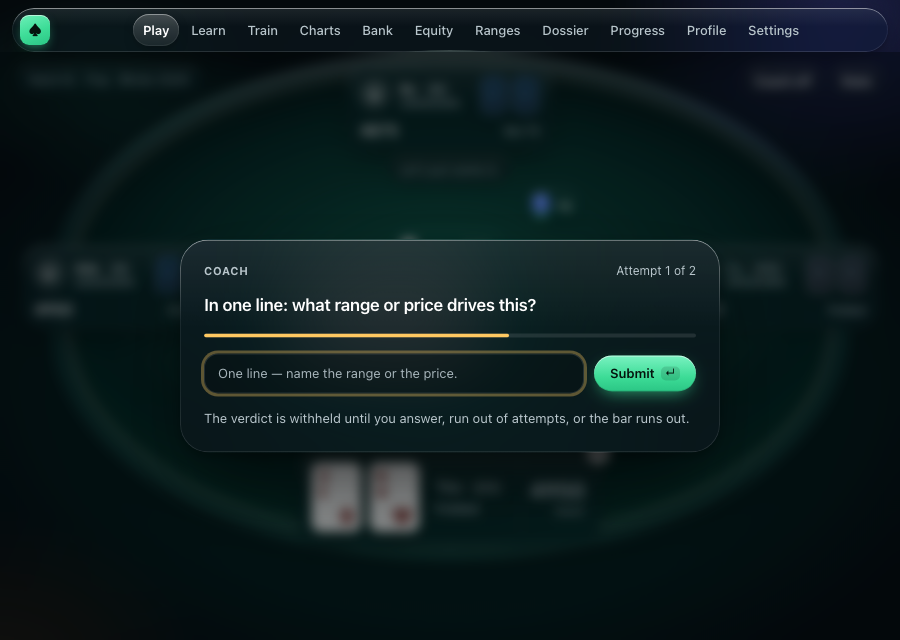
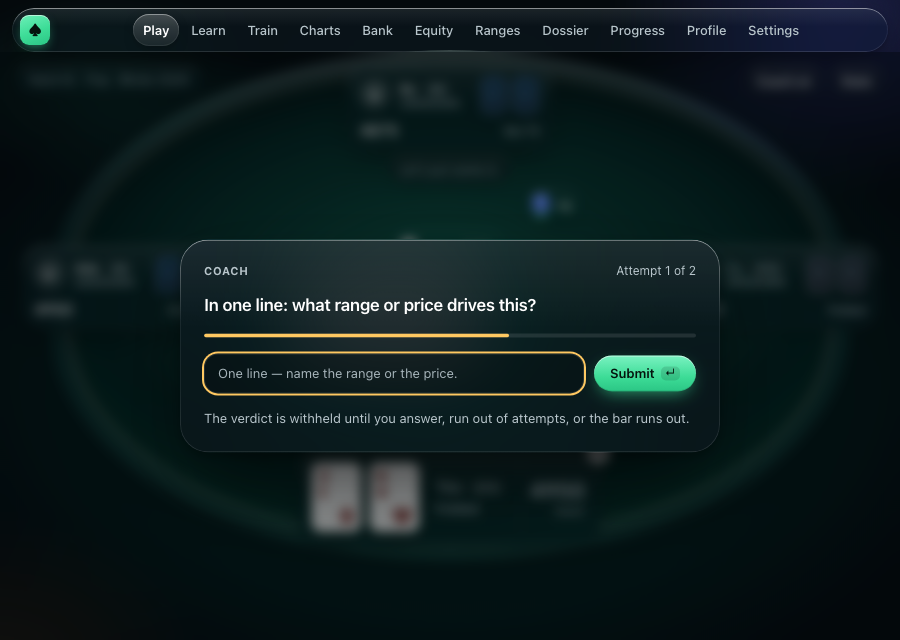
demo(glass): round-2 review fixes; review, findings, PR draft
Gate state shows Coach on; scale pin documented as needing an update;
solid gate focus ring; grid group role. Adds code-review.md, FINDINGS.md,
DESIGN.md and PR-DRAFT.md.

Changed region(s): [[0.2178, 0.5312, 0.6533, 0.625]]

diff --git a/demo/glass/glass.css b/demo/glass/glass.css
@@ -216,7 +216,7 @@ html[data-theme='light'] .avatar { background: #fff; }
 .seat.folded .name, .seat.folded .stackval, .seat.folded .hstack .stackval { color: var(--text-lo); }  /* dim by colour, never opacity: opacity breaks AA on glass */
 .seat.folded .status { color: var(--text-lo); }
 .status { font-size: var(--t-cap2); font-weight: 600; color: var(--text-lo); }
-.seat.act { box-shadow: var(--glow-act), var(--inner-hi), var(--shadow-2); scale: 1.02; }  /* glow alpha + scale match the e2e to-act pin */
+.seat.act { box-shadow: var(--glow-act), var(--inner-hi), var(--shadow-2); scale: 1.02; }  /* glow alpha matches the e2e pin; the pin reads scale from `transform`, see DECISIONS */
 .seat.act .status { color: var(--positive); }
 .quip { position: absolute; top: calc(100% + 8px); left: 50%; transform: translateX(-50%); width: max-content; max-width: 210px;
   padding: 5px 10px; border-radius: 12px; font-size: var(--t-cap); font-style: italic; color: var(--text-lo); }
@@ -351,4 +351,4 @@ html[data-theme='light'] .budget { background: rgba(10,40,40,0.10); }
   background: rgba(0,0,0,0.20); box-shadow: inset 0 0 0 1px var(--glass-edge), inset 0 1px 2px rgba(0,0,0,0.3); }
 html[data-theme='light'] .gate-row .gate-input { background: rgba(255,255,255,0.6); }
 .gate-input::placeholder { color: var(--text-lo-2); }
-.gate-input:focus { box-shadow: inset 0 0 0 1px var(--glass-edge), 0 0 0 3px rgba(255, 200, 97, 0.35); }
+.gate-input:focus { box-shadow: inset 0 0 0 1px var(--glass-edge), 0 0 0 2px var(--notable); }

diff --git a/demo/glass/tokens.css b/demo/glass/tokens.css
@@ -10,7 +10,8 @@
  *     new :root tokens plus component rules.
  *  3. e2e pins the port must keep or deliberately update (tests/e2e/interaction.spec.ts, gameplay.spec.ts):
  *     --text-hi #FFFFFF and --positive #3DDC97 never in a theme block; pot 14px/500; Fold box-shadow none;
- *     to-act shadow contains rgba(61, 220, 151, 0.4) with scale 1.02 (kept here); winner ring mint
+ *     to-act shadow contains rgba(61, 220, 151, 0.4) (kept here); to-act transform matrix(1.02…) (must be
+ *     updated: the oval's translateX composes into it); winner ring mint
  *     border-top-color.
  *
  * The LIGHT block overrides --text-hi and --positive, which the renderer's theme rule forbids. It stays

diff --git a/demo/glass/charts.html b/demo/glass/charts.html
@@ -104,7 +104,7 @@
               <span class="cap">Reference expansion — all 169 cells</span>
               <span class="legend"><span><i class="sw-open"></i>open</span><span><i class="sw-edge"></i>boundary</span></span>
             </div>
-            <div class="grid" id="grid" aria-label="CO open range, 169 cells"></div>
+            <div class="grid" id="grid" role="group" aria-label="CO open range, 169 cells"></div>
           </div>
           <div class="quizbar glass thick">
             <div class="cards"><div class="card"><span class="rk">A</span><span class="st">♠</span></div><div class="card red"><span class="rk">9</span><span class="st">♥</span></div></div>

diff --git a/demo/glass/table.html b/demo/glass/table.html
@@ -161,7 +161,7 @@
   // Mock-only state switch.
   const state = new URLSearchParams(location.search).get('state') || 'live';
   const $ = (id) => document.getElementById(id);
-  if (state === 'predict' || state === 'verdict') $('coachBtn').textContent = 'Coach on';
+  if (state !== 'live') $('coachBtn').textContent = 'Coach on'; // predict, gate and verdict only exist in coached mode
   if (state === 'predict') { $('tray').hidden = false; $('dock').hidden = true; $('stage').classList.add('predicting'); } // the dock is locked until commit; the tray occupies its slot
   if (state === 'gate' || state === 'verdict') {
     const sheet = $(state);

diff --git a/code-review.md b/code-review.md
@@ -1,0 +1,84 @@
+# Review: design-glass-mockup
+Verdict: PASS WITH NOTES
+Base: 4c4a305  Head: see `git log -1` (the fix commit after a0907f6)
+
+An adversarial reviewer ran in two rounds, following `~/.foundry/skills/pr-review/SKILL.md`:
+- **Round 1** (c20e068): BLOCK, with 11 Act-on items.
+- **Round 2** (a0907f6): BLOCK. Ten items were confirmed fixed. One new defect and one partial fix remained.
+
+Both remaining items are fixed at head and were re-verified below, so no Act-on item is open.
+
+## Act on
+None open. Both round-2 items are resolved:
+- **demo/glass/table.html — `?state=gate` showed "Coach off".** The gate only fires in coached mode, so the
+  label was wrong. Fixed: the label is set to "Coach on" for every state except `live`. A probe now reads
+  `live Coach off`, `predict/gate/verdict Coach on`.
+- **DECISIONS.md and tokens.css — the claim "scale 1.02 (the mock keeps this)" was false for the real pin.**
+  interaction.spec.ts:192 reads `transform` = `matrix(1.02…)`, but the mock uses the `scale` property, and
+  the oval's `translateX(-50%)` would compose into that matrix. Fixed: the docs now say the shadow alpha is
+  kept and the transform pin needs updating in the port.
+
+## Consider
+- **Scroll panels at 900x640 cut a row at the panel edge** (home recent hand #39, charts rule 3) with only
+  a thin scrollbar as the cue. Tradeoff: an edge fade lowers the contrast of the last visible line; it is
+  left as is, and the capture log reports "scrolls inside".
+- **The overlap check covers only the table panes in the live and predict states.** Sheet-versus-nav and
+  nested panes are not checked. Tradeoff: the sheets are centred modals with the nav inert, so the risk
+  is low.
+
+## Noted
+- **Some text is outside the contrast script but was probed by the reviewer, and all of it passes:**
+  pseudo-element counters (≥ 8.86), the gate placeholder (8.61 dark / 6.56 light) and hover states (≥ 6.18).
+  contrast.md states the gap.
+- **The light block keeps `--suit-red` `#FF7A6B`**, which would be about 2.5:1 on light glass if the light
+  theme were ported. The light theme is declared preview-only (an Open question).
+- **Minor markup:**
+  - `<button class="start">` wraps `<div>`s.
+  - the gate uses an `<input>`, where the real control is a `<textarea>`.
+- **The evidence scripts live in gitignored `tests/tmp/`**, as the task specifies. They are captured as
+  evidence instead of committed.
+- **Applied during round 2:**
+  - the gate focus ring is now a solid 2px `--notable` (it was 0.35-alpha amber)
+  - the charts grid got `role="group"` for its `aria-label`
+  - the contrast script now exits non-zero on any failure
+
+## Dismissed (resolved, with proof, at a0907f6 and still true at head)
+- **Archetype and showdown-quip leak.** All three villains show "Unknown" (jitter.ts `HIDDEN_ARCHETYPE_LABEL`),
+  and Bo says "Let's put some in." (tableTalk.ts IN_HAND bet).
+- **Gate missing.** `?state=gate` uses the real prompt, "Attempt 1 of 2", the coachPanel placeholder and an
+  8 s budget. It is modal, the nav is inert and the input is focused.
+- **"Next hand", N and S before the hand ends.** The footer is now "Ada and Bo play the hand out behind
+  this sheet" plus Close/Esc, declared as invented. Only real hotkeys (F, C, R, A) are shown.
+- **The tray disabled Check.** All four predicted actions are enabled and are `role=radio` with
+  `aria-checked`.
+- **"50bb table".** It now reads "40bb table" (a `DEPTHS` value), and the pill reads "15 min · not a session".
+- **The chart quiz ring revealed the answer.** The ring is removed.
+- **Copy was cut to fit 900x640.** The media-query deletions are gone; panels scroll instead. Rule 3, the
+  boundary chips and the expansion/purity notes are present.
+- **Port claims.** tokens.css and DECISIONS.md now describe a three-part port and list every e2e pin
+  honestly. The light theme is an Open question. `--surface*` is near-opaque. `--suit-red` is `#FF7A6B`
+  (dark-surface text) and `--card-red` is `#C42F25` (the ivory face).
+- **Undisclosed inventions.** All are listed under Mock-only in DECISIONS.md. Ivory cards and position badges
+  are under Decisions to evaluate.
+- **Poker arithmetic and copy fidelity.** Checked by the reviewer against the source:
+  - stacks: 4950/4950/4875/5000
+  - pot 225, price 25%, minimum raise 150
+  - fold EV loss (0.74 − 0.25) × 300 / 50 = 2.94 bb, which is serious
+  - the predict and support strings
+  - the recommend template
+  - the session plan from `assemble()`: 27.25 min, 13 spots
+  - the CO grid equals `rfiCombos('CO')`: 60 cells, 26.7%
+- **The mock touches nothing under src/.** `git diff 4c4a305 -- src package.json package-lock.json` is empty
+  (0 lines).
+
+## Verification
+- `node tests/tmp/glass-capture.mjs` exits 0. It reports no viewport or clip overflow, no overlapping table
+  panes, and a one-line commit prompt across all 28 renders and 6 comparisons. The reviewer's negative test
+  at 760x540 made it exit 1.
+- `node tests/tmp/glass-contrast.mjs` exits 0 with "No AA failures" across 28 renders. The lowest result is
+  4.65:1 (the verdict's "Serious" pill).
+- `npm run typecheck` exits 0. `npm test` exits 0 (85 files, 1796 tests).
+- `npm run e2e` exits 1: all 540 tests fail at `electron.launch` because `node_modules/electron` is
+  half-installed. This is environmental, not caused by the branch.
+- **Not tested:** how a real port behaves against the e2e pins, the GPU cost of stacked `backdrop-filter` in
+  Electron, focus-visible states, and the `prefers-reduced-transparency` rendering.

diff --git a/DESIGN.md b/DESIGN.md
@@ -1,0 +1,89 @@
+# DESIGN — Liquid Glass (implementer detail)
+
+The decisions and the reasons for them are in `DECISIONS.md`. This file is the build sheet.
+
+## Files (`demo/glass/`)
+- `tokens.css` is the only source of values. Its header explains the three-part port (paint block,
+  component rules, e2e pins).
+- `glass.css` holds the components:
+  - the glass material
+  - the nav
+  - buttons
+  - cards
+  - chips
+  - the table and seats
+  - the dock and slider
+  - the commit tray
+  - the gate and verdict sheets
+  - the reduced-motion block
+- `shell.js` sets the theme from `?theme=light`, renders the 11 real nav tabs and adds the backdrop
+  layer. It also drives the slider fill. `?still=1` freezes the gate budget for captures.
+- Pages:
+  - `home.html`
+  - `table.html`, with `?state=live|predict|gate|verdict`
+  - `charts.html`, whose grid is generated from `RFI_SPECS.CO` and `BOUNDARY_COMBOS.CO`
+  - `drill.html`
+  - `index.html`
+  - `compare.html`
+
+## Material recipe
+Every pane is `.glass`, plus `.thin` or `.thick` where needed. Each pane gets five things:
+1. **Fill:** `var(--glass-sheen), var(--glass)`, where the sheen is a top-lit linear gradient.
+2. **Backdrop:** `blur(var(--blur-sm|md|lg)) saturate(180%)`.
+3. **Specular rim:** a `::before` with 1px padding and a vertical gradient (bright top, faint bottom),
+   masked to a ring with `mask-composite: exclude`.
+4. **Depth:** `--inner-hi` (inset top highlight plus a 1px inner edge) plus `--shadow-1|2|3` (contact plus
+   ambient).
+5. **Isolation:** `isolation: isolate`, so the rim never bleeds out of the pane.
+
+## Backdrop
+`.field` is a fixed layer built in four steps:
+1. A felt radial gradient.
+2. Three blurred light pools (mint at the table centre, indigo top-right, faint amber bottom-left), drawn on
+   `::before`.
+3. SVG `feTurbulence` grain on `::after`, at 7% opacity with `overlay` blend. It stops the gradient banding.
+4. The felt oval itself sits on top: a radial bed, inset rings, and a blurred glass rail on `.felt::before`.
+
+## Table layout
+Everything is absolute inside `.table-stage`.
+- **Seats:**
+  - hero at the bottom centre, 96px above the stage bottom (120px while the tray is open)
+  - villains at left/top/right
+  - villain seat: a 204px grid with avatar, name, hidden-archetype tag, cards, and a stack/status row
+  - hero seat: one row with cards, then name/status, then the stack
+- **Bet chip:** beside the quip under Bo.
+- **Board and pot:** centred at 44% height.
+- **Dock:** a bottom pill: Fold, Check, Call, a separator, the slider, ½ ¾ Pot All-in, a separator, Raise.
+  The slider default is the minimum raise (150).
+- **Predict state:** the tray takes the dock's slot. Row 1 is the prompt (one line). Row 2 is the action
+  radios, the confidence radios and the Why field.
+- **Gate and verdict states:** a scrim plus a sheet. Siblings and the nav are set `inert` and `aria-hidden`,
+  and focus goes to the input or the first button.
+
+## Motion
+- **Deal:** `@keyframes deal`, translating from `--from-x/--from-y` with a -14deg rotation and 0.7 scale. It
+  runs for `--dur-deal` (560ms) on `--ease-spring`, staggered by `--i` × 70ms.
+- **Board:** a `flip` keyframe, starting after 400ms with a 90ms stagger.
+- **Hover:** −1px for buttons, −2px for seats, −3px for tiles.
+- **Press:** scale 0.965 over 60ms.
+- **Sheets:** `rise` (420ms spring).
+- **Meter:** `grow` (700ms).
+- **Gate:** `drain` (8000ms linear, which matches `GATE_BUDGET_MS`).
+- All of it is disabled by `prefers-reduced-motion`.
+
+## Rules learned while building
+- Dim text on glass by colour, never by `opacity`. The contrast check failed folded seats at 2.4–3.7:1
+  until this changed.
+- Light-theme mint must be dark (`#086640` for text; `#0E7F50 → #0A6B43` for a fill under white).
+- Keep `--surface*` near-opaque, because about 60 renderer rules consume it without a backdrop. Glass is
+  opt-in through `--glass*`.
+- `--suit-red` in the renderer is dark-surface text. The ivory-card red is a separate token, `--card-red`.
+
+## Verification tools (throwaway, `tests/tmp/`)
+- `glass-capture.mjs` captures every screen, theme and size, plus the comparisons, at 1×. Its guard fails on
+  three things:
+  - viewport or clip overflow (content inside a scroll container is reported as "scrolls")
+  - pairwise overlap of table panes
+  - a wrapped commit prompt
+- `glass-contrast.mjs` records text runs, hides the text, screenshots, clips each run to its visible rect,
+  and takes the 5th-percentile-worst contrast per run.

diff --git a/PR-DRAFT.md b/PR-DRAFT.md
@@ -1,0 +1,59 @@
+# demo: Liquid Glass design mockup
+
+## Summary
+This is a static HTML/CSS mockup of an Apple-style "liquid glass" direction for Offsuit. Every screen is
+built from real app content: the copy, numbers and controls come from `src/renderer` and `src/core`.
+Every surface becomes a translucent pane with a specular rim and layered shadows. The panes sit over a deep
+felt backdrop with light pools, built only from CSS. Mint is kept for to-act, positive results and the one
+primary action per screen. Type is the system SF stack on a 7-step scale.
+
+- **Nothing under `src/` changes, and no dependencies change.** The mockup lives entirely in `demo/glass/`,
+  and the decision record is in `DECISIONS.md`.
+- **The design tokens are in one file**, `demo/glass/tokens.css`, named after the renderer's tier-2
+  semantics. Its header describes the three-part port (a paint block, component rules, and the e2e pins).
+- **The direction differs from the earlier `demo/` explorations**, all of which banned felt and used opaque
+  depth. Here translucency is the identity. See `DECISIONS.md`.
+
+## Screens
+Each screen is captured at 900x640 and 1100x760, in dark and light, in `demo/glass/screenshots/`.
+
+| Screen | File | Before / after |
+|---|---|---|
+| Home | `home.html` | `compare-home.png` |
+| Table, live (flop, hero to act, dock and bet slider) | `table.html?state=live` | `compare-table.png` |
+| Commit first (the predict panel replaces the dock) | `table.html?state=predict` | `compare-predict.png` |
+| Gate (verdict withheld behind the one-line prompt) | `table.html?state=gate` | — (no current "before" capture exists) |
+| Coach verdict and prediction result | `table.html?state=verdict` | `compare-verdict.png` |
+| Preflop charts (CO open) | `charts.html` | `compare-charts.png` |
+| Train → Math drill (graded) | `drill.html` | `compare-drill.png` |
+
+## How to open
+1. Open `demo/glass/index.html` in a browser. Chrome or Safari is recommended, because they support
+   `backdrop-filter`.
+2. Resize the window to 900x640 or 1100x760.
+3. Optionally, add `?theme=light` to any page for the light variant.
+4. Optionally, open `demo/glass/compare.html?screen=<id>` for the side-by-side before/after view.
+
+## Verification
+- **Contrast:** WCAG AA was measured on rendered pixels, and all 28 renders pass. See
+  `demo/glass/contrast.md`.
+- **Layout guard:** the capture run found no viewport or clip overflow, no overlapping table panes, and the
+  commit prompt stays on one line.
+- **Tests:**
+  - `npm run typecheck` passes.
+  - `npm test` passes (1796 tests).
+  - `npm run e2e` fails: 540 out of 540 tests stop at `electron.launch`, because `node_modules/electron` is
+    only half-installed in this checkout. This is an environment problem, not caused by this branch.
+- **Test coverage:** no failing-first test applies, since no defect is repaired. No automated test covers
+  the visual design.
+- **Review:** there was an adversarial review; see `code-review.md`.
+
+## Decisions for the reviewer
+These are listed in `DECISIONS.md` under "Decisions to evaluate" and "Open questions":
+- the oval seat layout
+- moving Coach and Stats into a toolbar
+- the tray replacing the dock
+- modal gate and verdict sheets
+- the ivory card face
+- position badges
+- whether a light theme can be ported at all, given the e2e colour pins

diff --git a/FINDINGS.md b/FINDINGS.md
@@ -1,0 +1,53 @@
+# FINDINGS — Offsuit "Liquid Glass" mockup
+
+## Outcome
+This is a static mockup of an Apple-style liquid-glass direction. Translucent panes, each with a bright top
+rim and soft layered shadows, sit over a deep felt backdrop with blurred light pools. Mint is used only
+for "your turn", wins and the one main action on each screen. Type is the system SF font.
+
+It covers seven real Offsuit screens: Home, the table (live, commit first, gate, verdict), Charts and the
+Math drill. Each is captured at 900x640 and 1100x760, in dark and light. Every glass text run passes WCAG AA,
+measured on the rendered pixels. Nothing under `src/` changed.
+
+Open `demo/glass/index.html`.
+
+## Decisions to evaluate
+- **Oval seating** instead of the real top row of seats. If overruled: keep the row, and only the material
+  changes, which makes the table port smaller.
+- **Coach and Stats move to a top-right toolbar**, off the action dock. If overruled: the dock carries 11
+  controls again and is tight at 900px.
+- **The commit tray replaces the action dock** until you commit; the real app stacks both. If overruled:
+  stack them, and shrink the hero seat at 900x640.
+- **The gate and the verdict are modal glass sheets** over a blurred table, and the verdict gets a meter and
+  a Close button. If overruled: they stay inline strips above the dock, and no dismiss is needed.
+- **Ivory card faces**; the app uses dark faces. If overruled: keep the dark faces, and the glass still works.
+- **Position badges (BTN/SB/BB/UTG) on seats**; the app shows none. If overruled: drop them.
+
+## Open questions
+- **Can a light theme be ported?** The renderer forbids theme blocks from changing `--text-hi` and
+  `--positive`, because e2e tests pin those colours. Default taken: light ships as a mock-only preview.
+- **Is the GPU cost acceptable?** The mock stacks about 12 `backdrop-filter` layers, and Electron must hold
+  that on low-end GPUs. Default taken: assume yes, with the opaque `prefers-reduced-transparency` fallback
+  already in the tokens.
+- **The e2e suite could not run.** All 540 tests fail at `electron.launch` because `node_modules/electron`
+  is half-installed in this checkout. Default taken: left as is, because reinstalling was out of scope.
+  Typecheck and the 1796 unit tests pass.
+
+## Alternatives rejected
+- **Glass on the opaque `--surface` tokens.** It would turn about 60 non-glass renderer surfaces
+  see-through.
+- **Hiding copy to fit 900x640.** Panels scroll instead, as the real screens do.
+
+## Evidence
+- Mockups: the `demo/glass/` folder, also kept as evidence: `index.html`, `home.html`, `table.html`,
+  `charts.html`, `drill.html`, `compare.html`, `tokens.css`, `glass.css`, `shell.js`.
+- Screenshots: `<screen>[-light]-<900x640|1100x760>.png` for home, table, predict, gate, verdict, charts and
+  drill, plus `compare-<screen>.png` for each before/after pair.
+- Contrast: `contrast.md`, with the log in `glass-contrast.log`.
+- Capture and layout guard: `glass-capture.log`.
+- Tests: `tests-typecheck.log`, `tests-unit.log` and `tests-e2e.log`.
+- Records:
+  - `DECISIONS.md`: the full decision record.
+  - `DESIGN.md`: implementer detail.
+  - `code-review.md`: the adversarial review and its resolution.
+  - `PR-DRAFT.md`: the draft PR description.

diff --git a/DECISIONS.md b/DECISIONS.md
@@ -85,7 +85,10 @@ Living record. Each line is the current end state.
      - `--text-hi` `#FFFFFF` and `--positive` `#3DDC97` stay out of theme blocks.
      - the pot is 14px/500 (the mock uses 17px/700).
      - Fold has `box-shadow: none` (the mock has glass shadows).
-     - the to-act shadow contains `rgba(61, 220, 151, 0.4)` with scale 1.02 (the mock keeps this).
+     - the to-act shadow contains `rgba(61, 220, 151, 0.4)` (the mock keeps this). The pin also reads
+       `transform` = `matrix(1.02, 0, 0, 1.02, 0, 0)`. The mock uses the `scale` property, which leaves
+       `transform` untouched, and the oval's `translateX(-50%)` would compose into that matrix, so this pin
+       needs updating in the port.
      - the winner ring has a mint `border-top-color` (not mocked).
   - Also needed: the tray/dock swap in the predict flow, modal focus handling for the gate and verdict
     sheets, and a check of the GPU cost.
